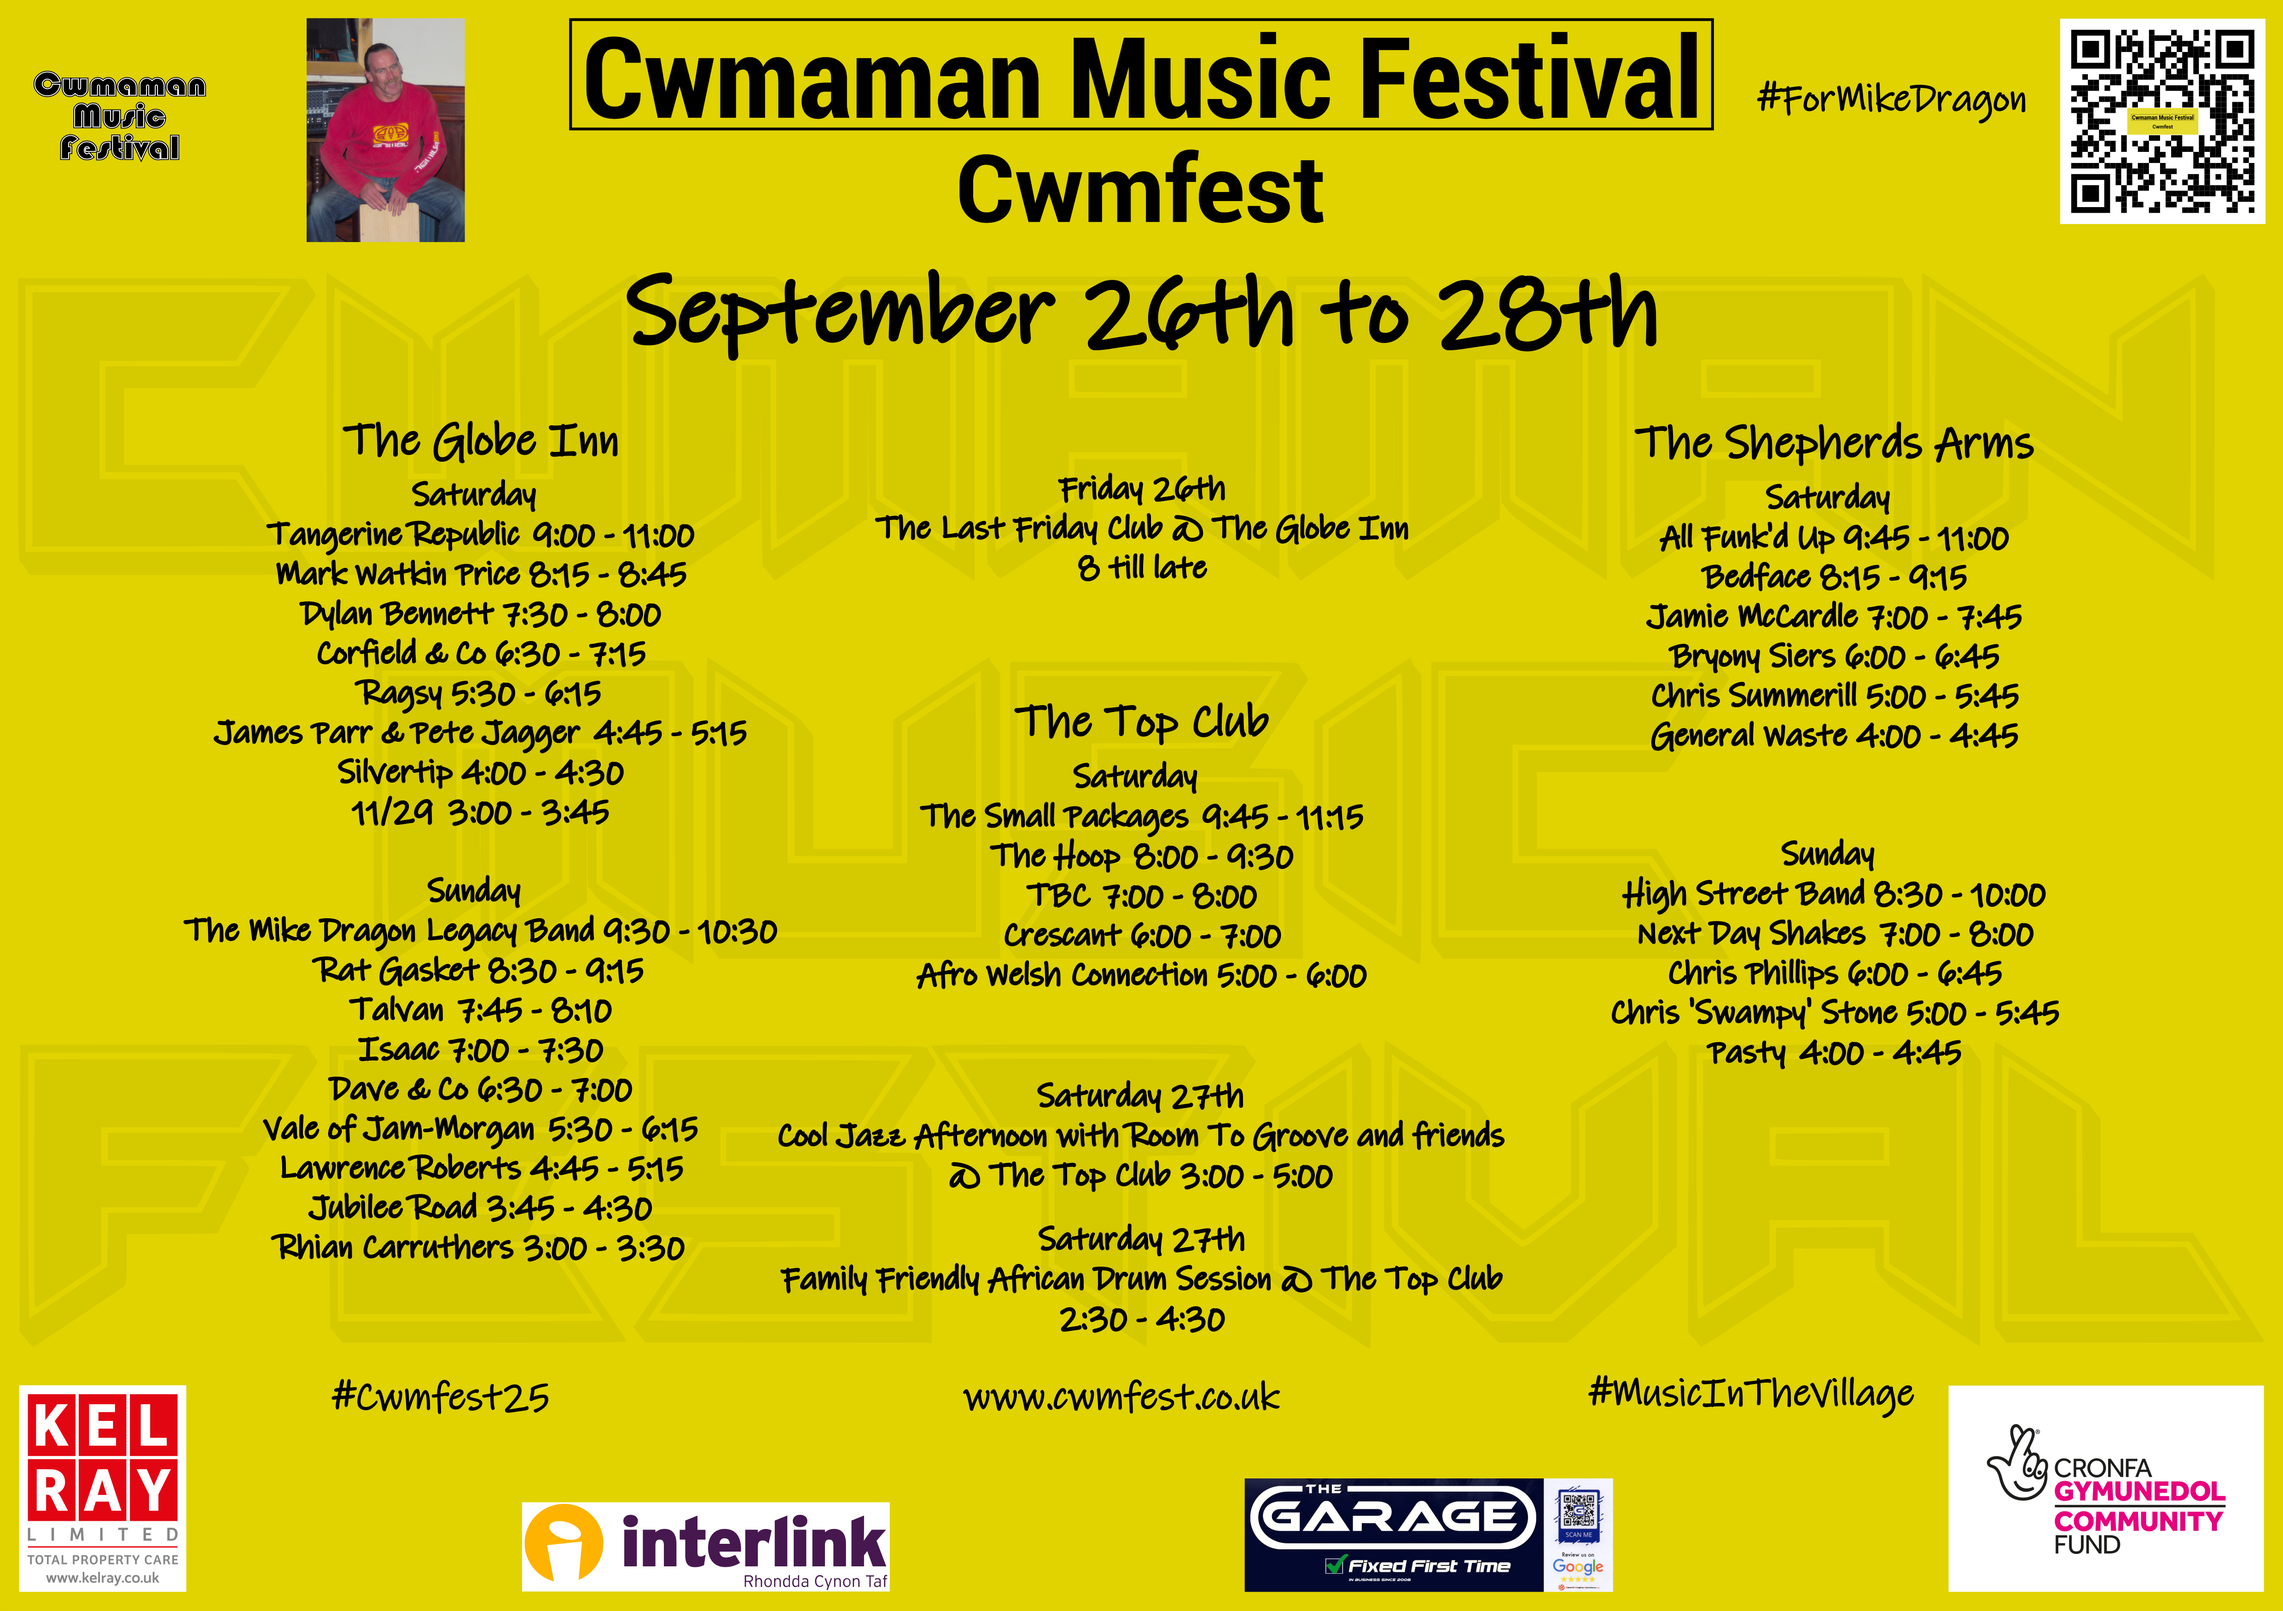
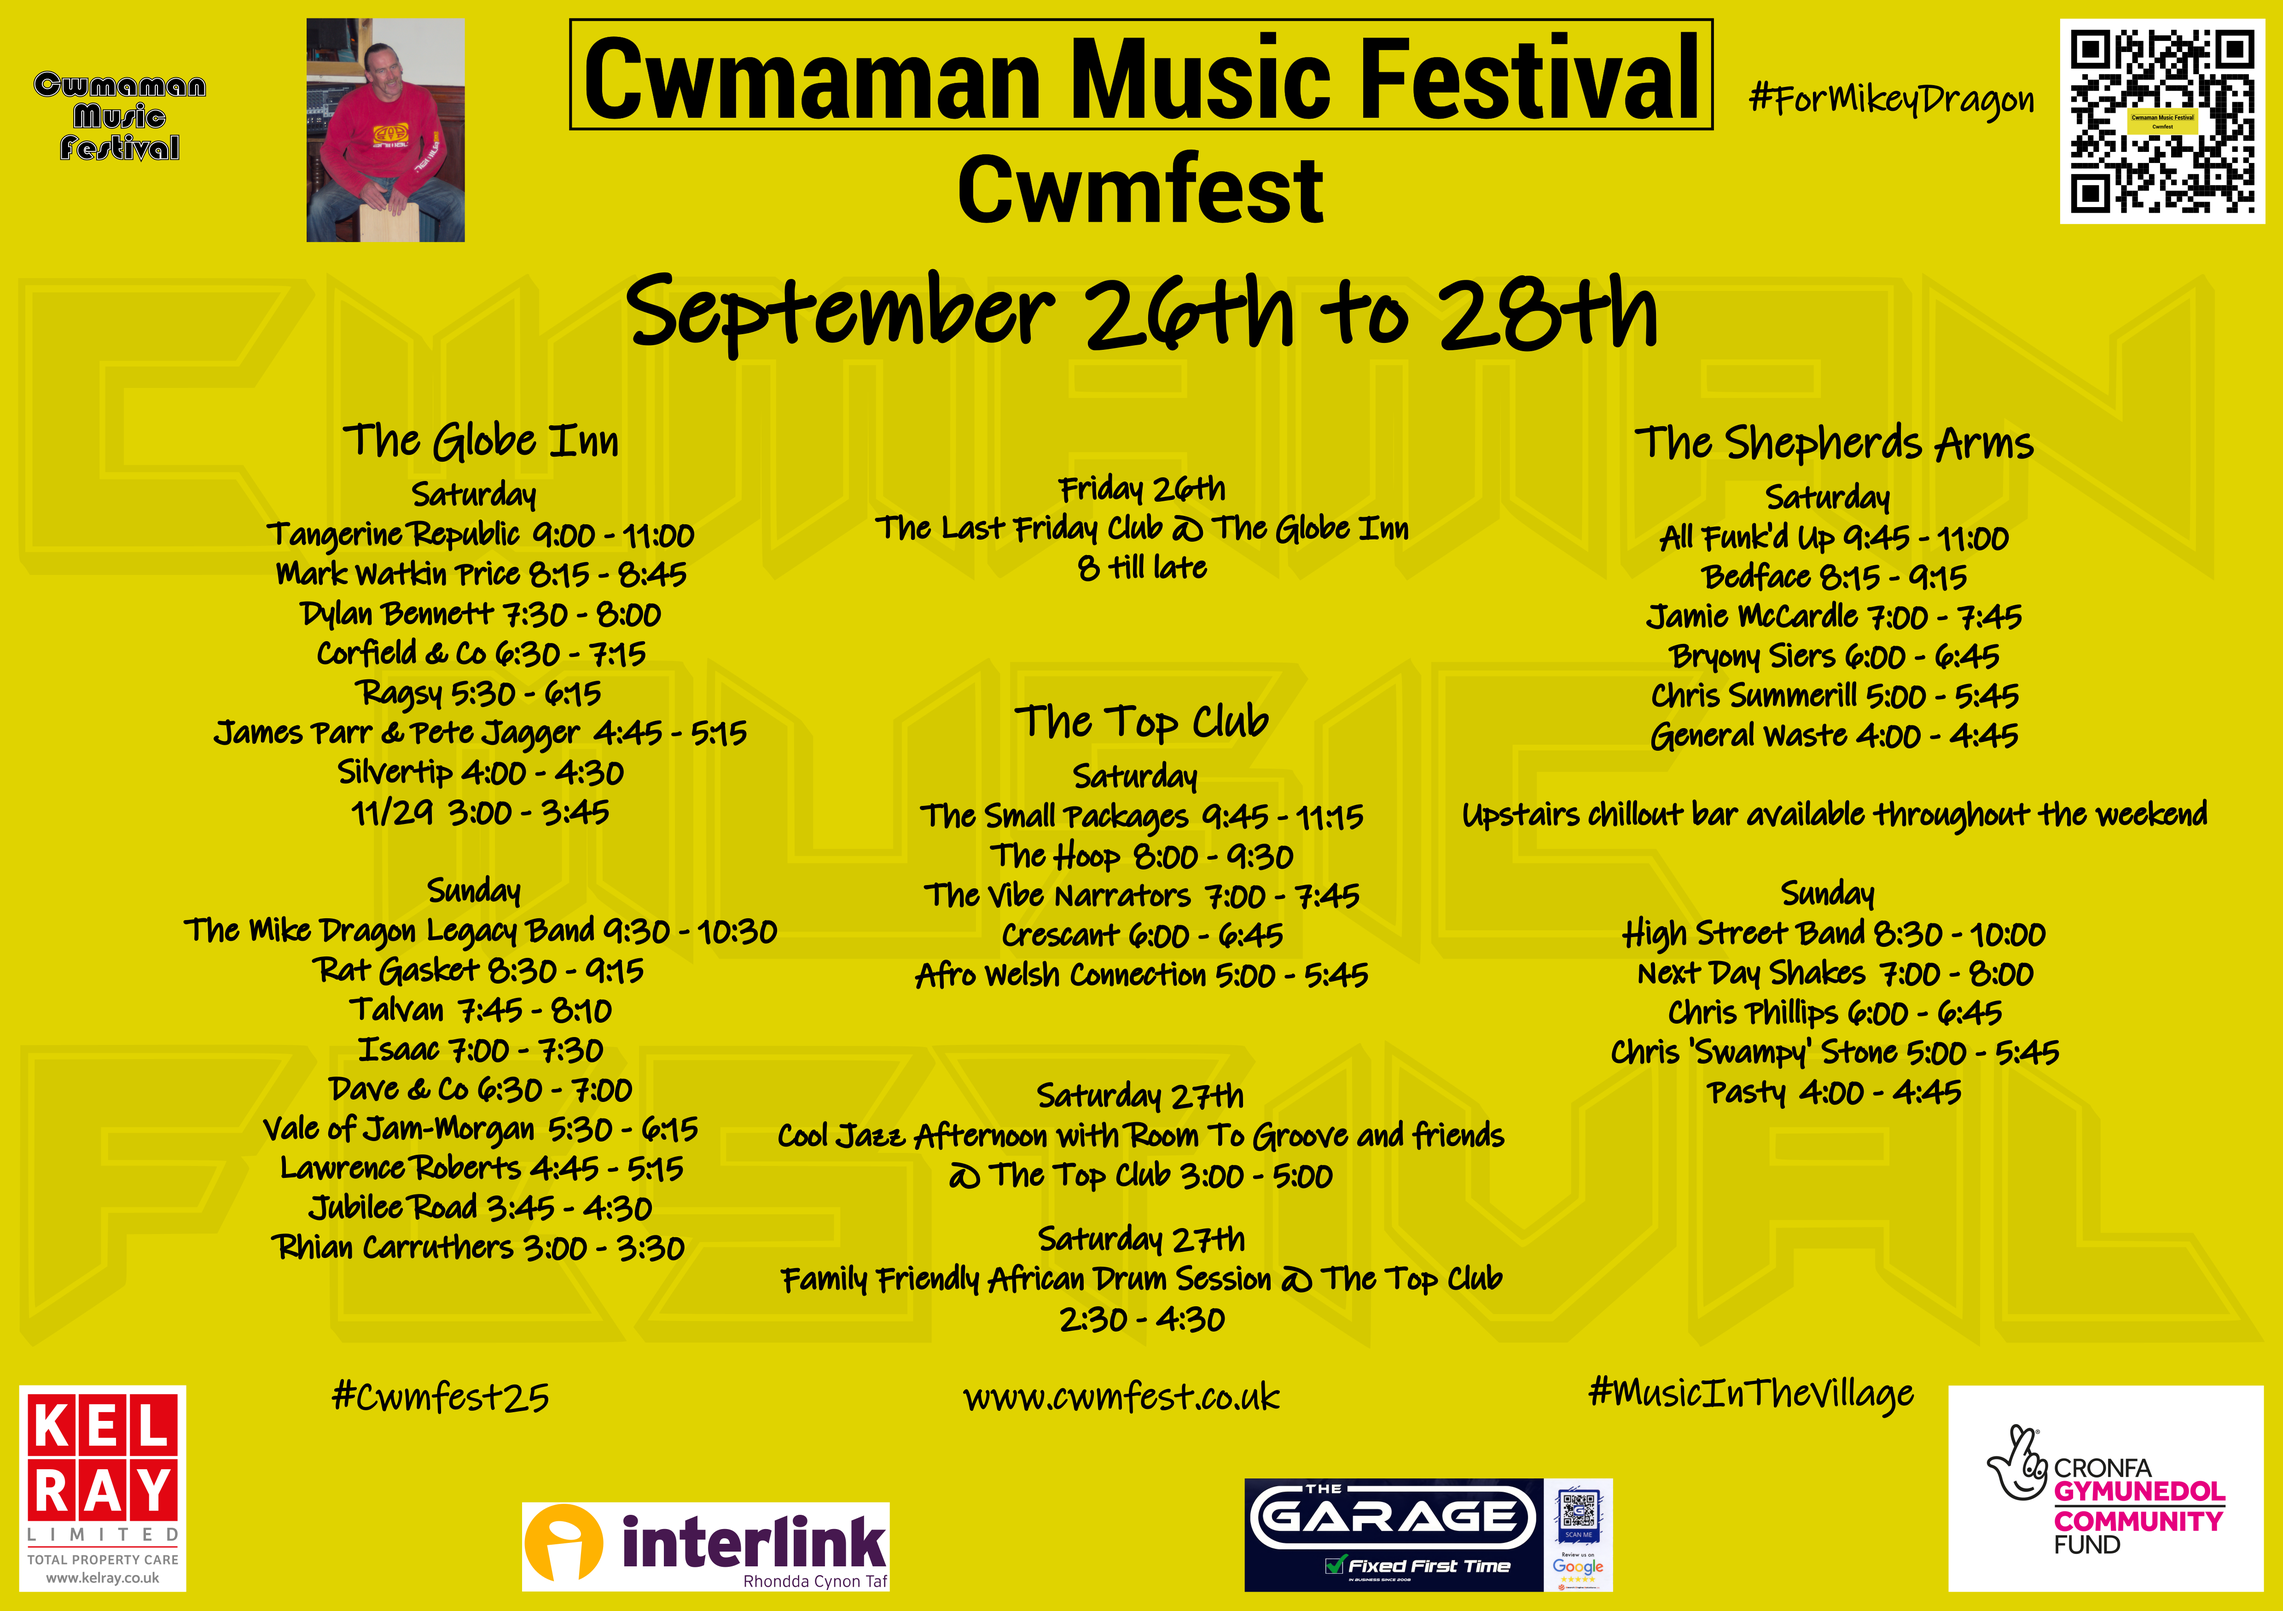
Updated lineup
Updated lineup and poster based on The Vibe Narrators confirming

Changed region(s): [[0.6521, 0.4983, 0.9627, 0.6851], [0.4037, 0.5294, 0.59, 0.6229], [0.7764, 0.0311, 0.9006, 0.0934]]

diff --git a/lineup_tmp.html b/lineup_tmp.html
@@ -141,7 +141,7 @@
 		<br>
 		<p>5:00 - 6:00	Afro Welsh Connection</p>
 		<p>6:00 - 7:00	Crescant</p>
-		<p>7:00 - 8:00	TBC</p>
+		<p>7:00 - 8:00	The Vibe Narrators</p>
 		<p>8:30 – 9:30 The Hoop</p>
 		<p>9:45 – 11:15 The Small Packages</p>
 	</div>
